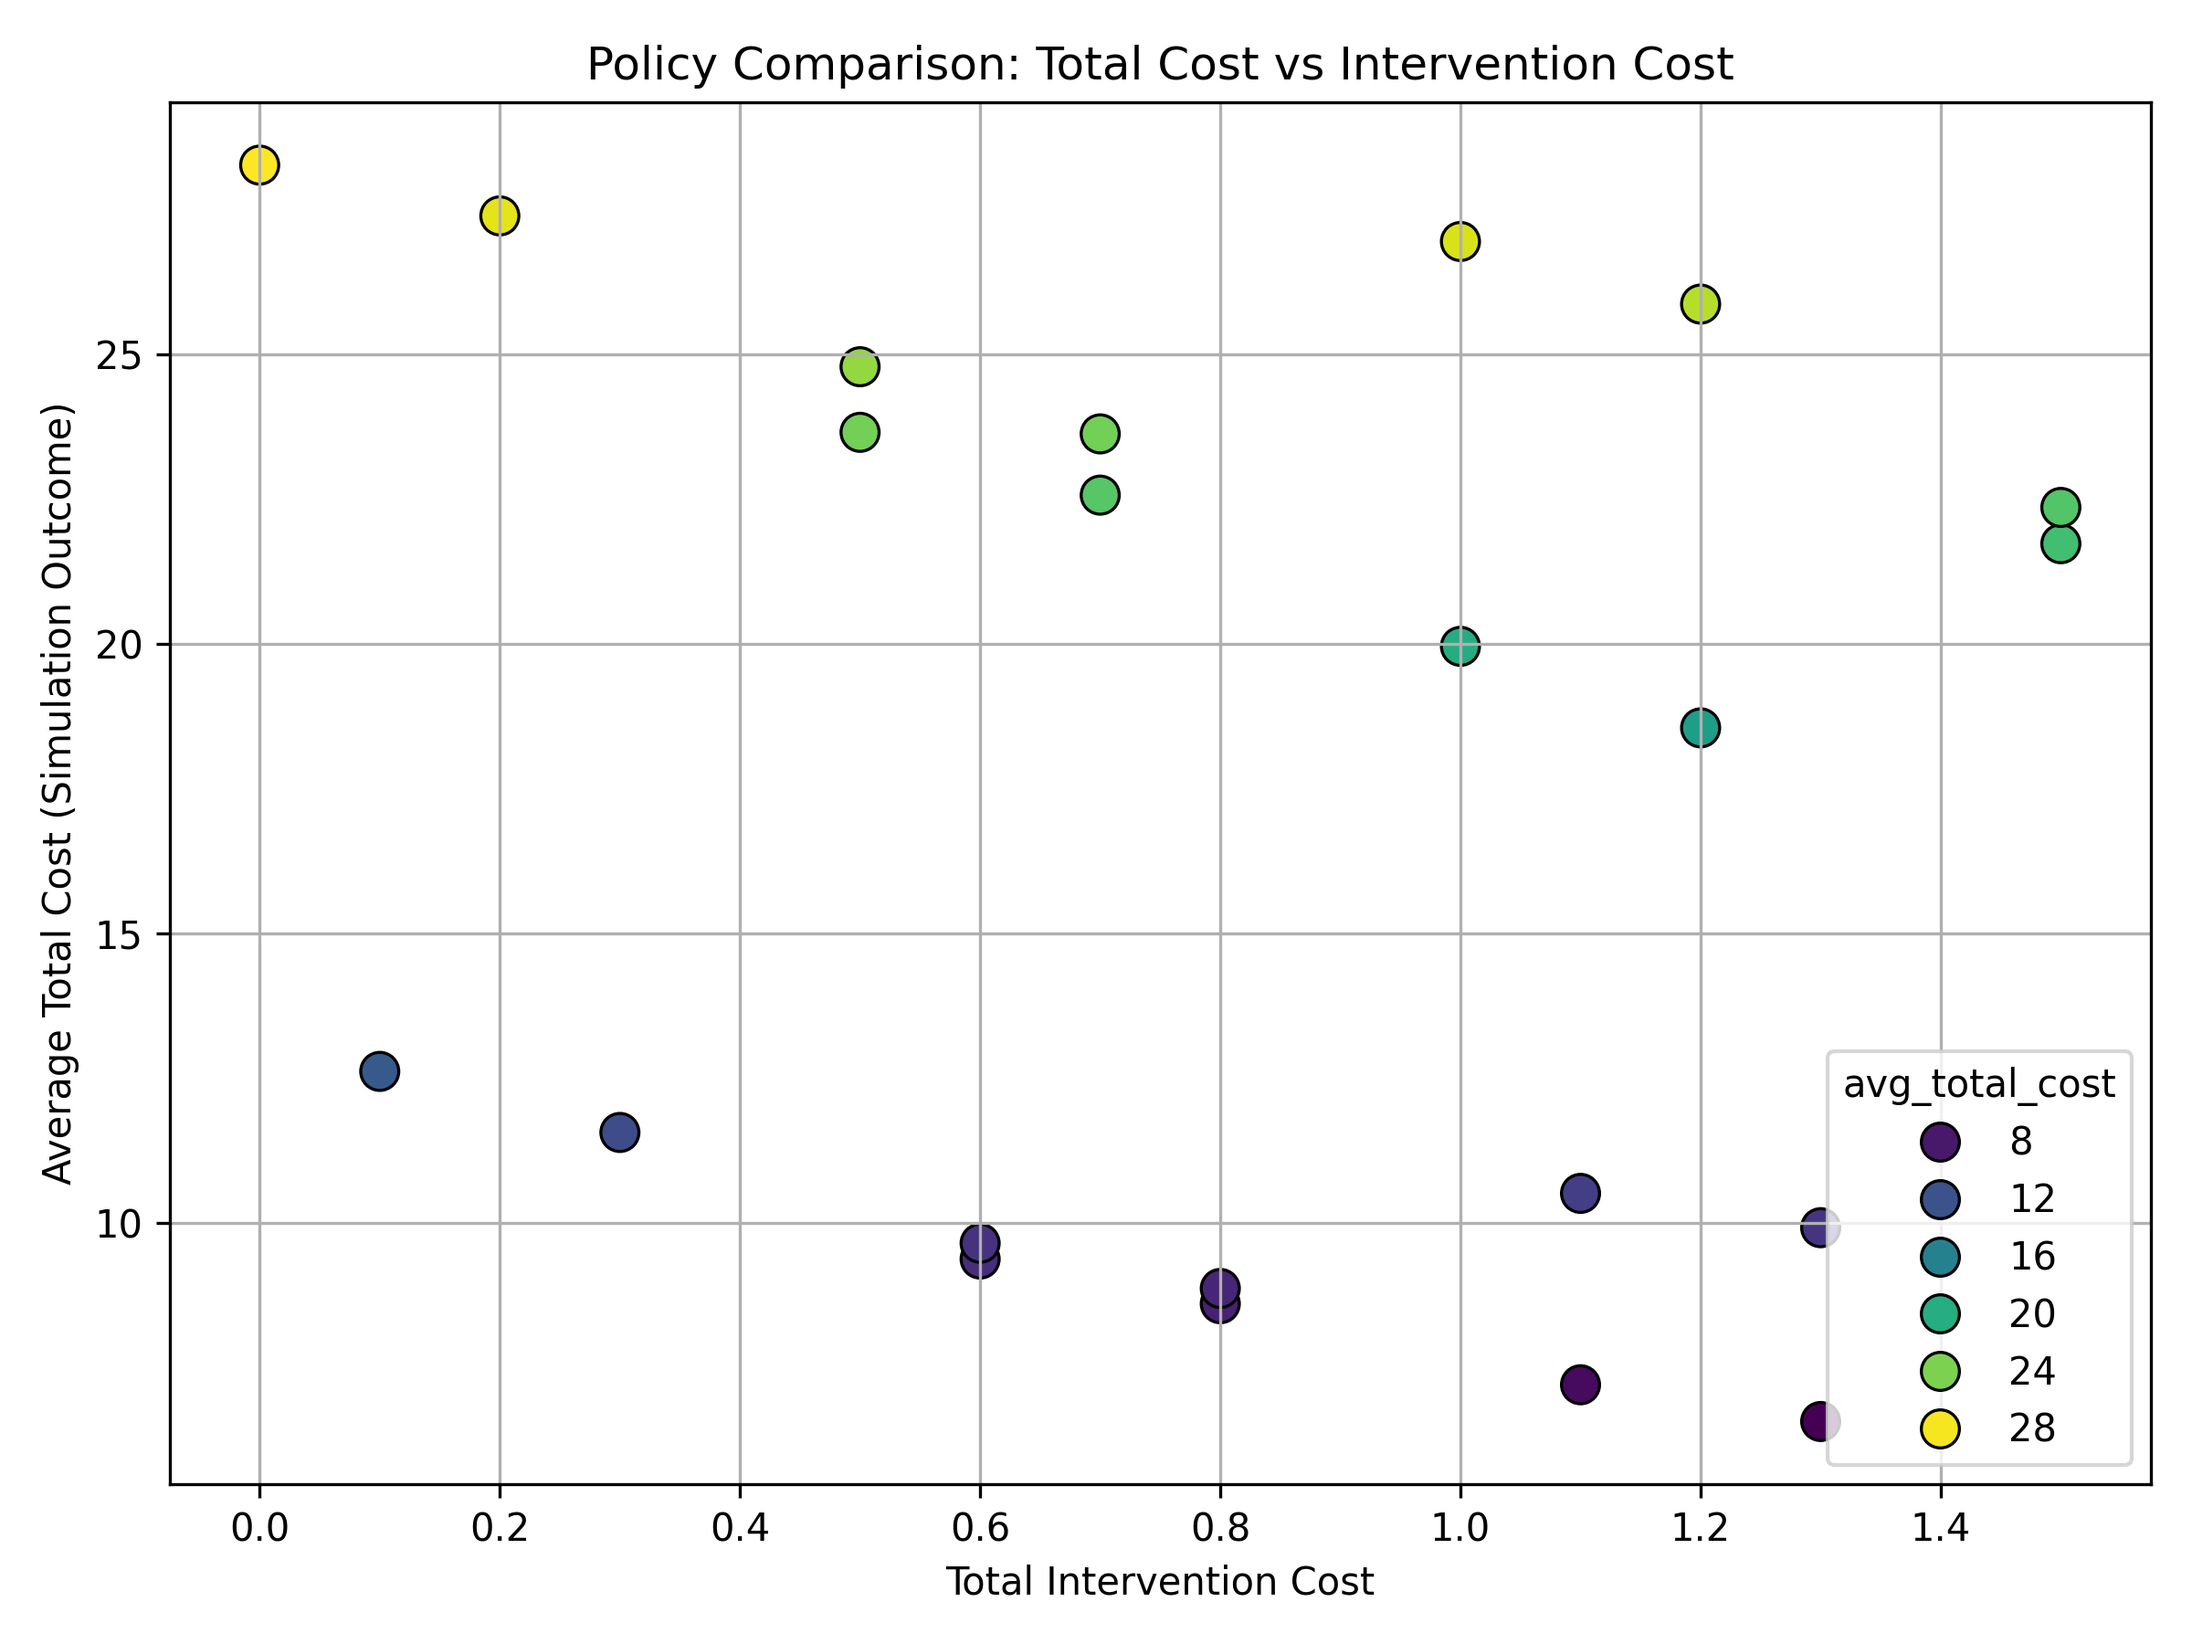
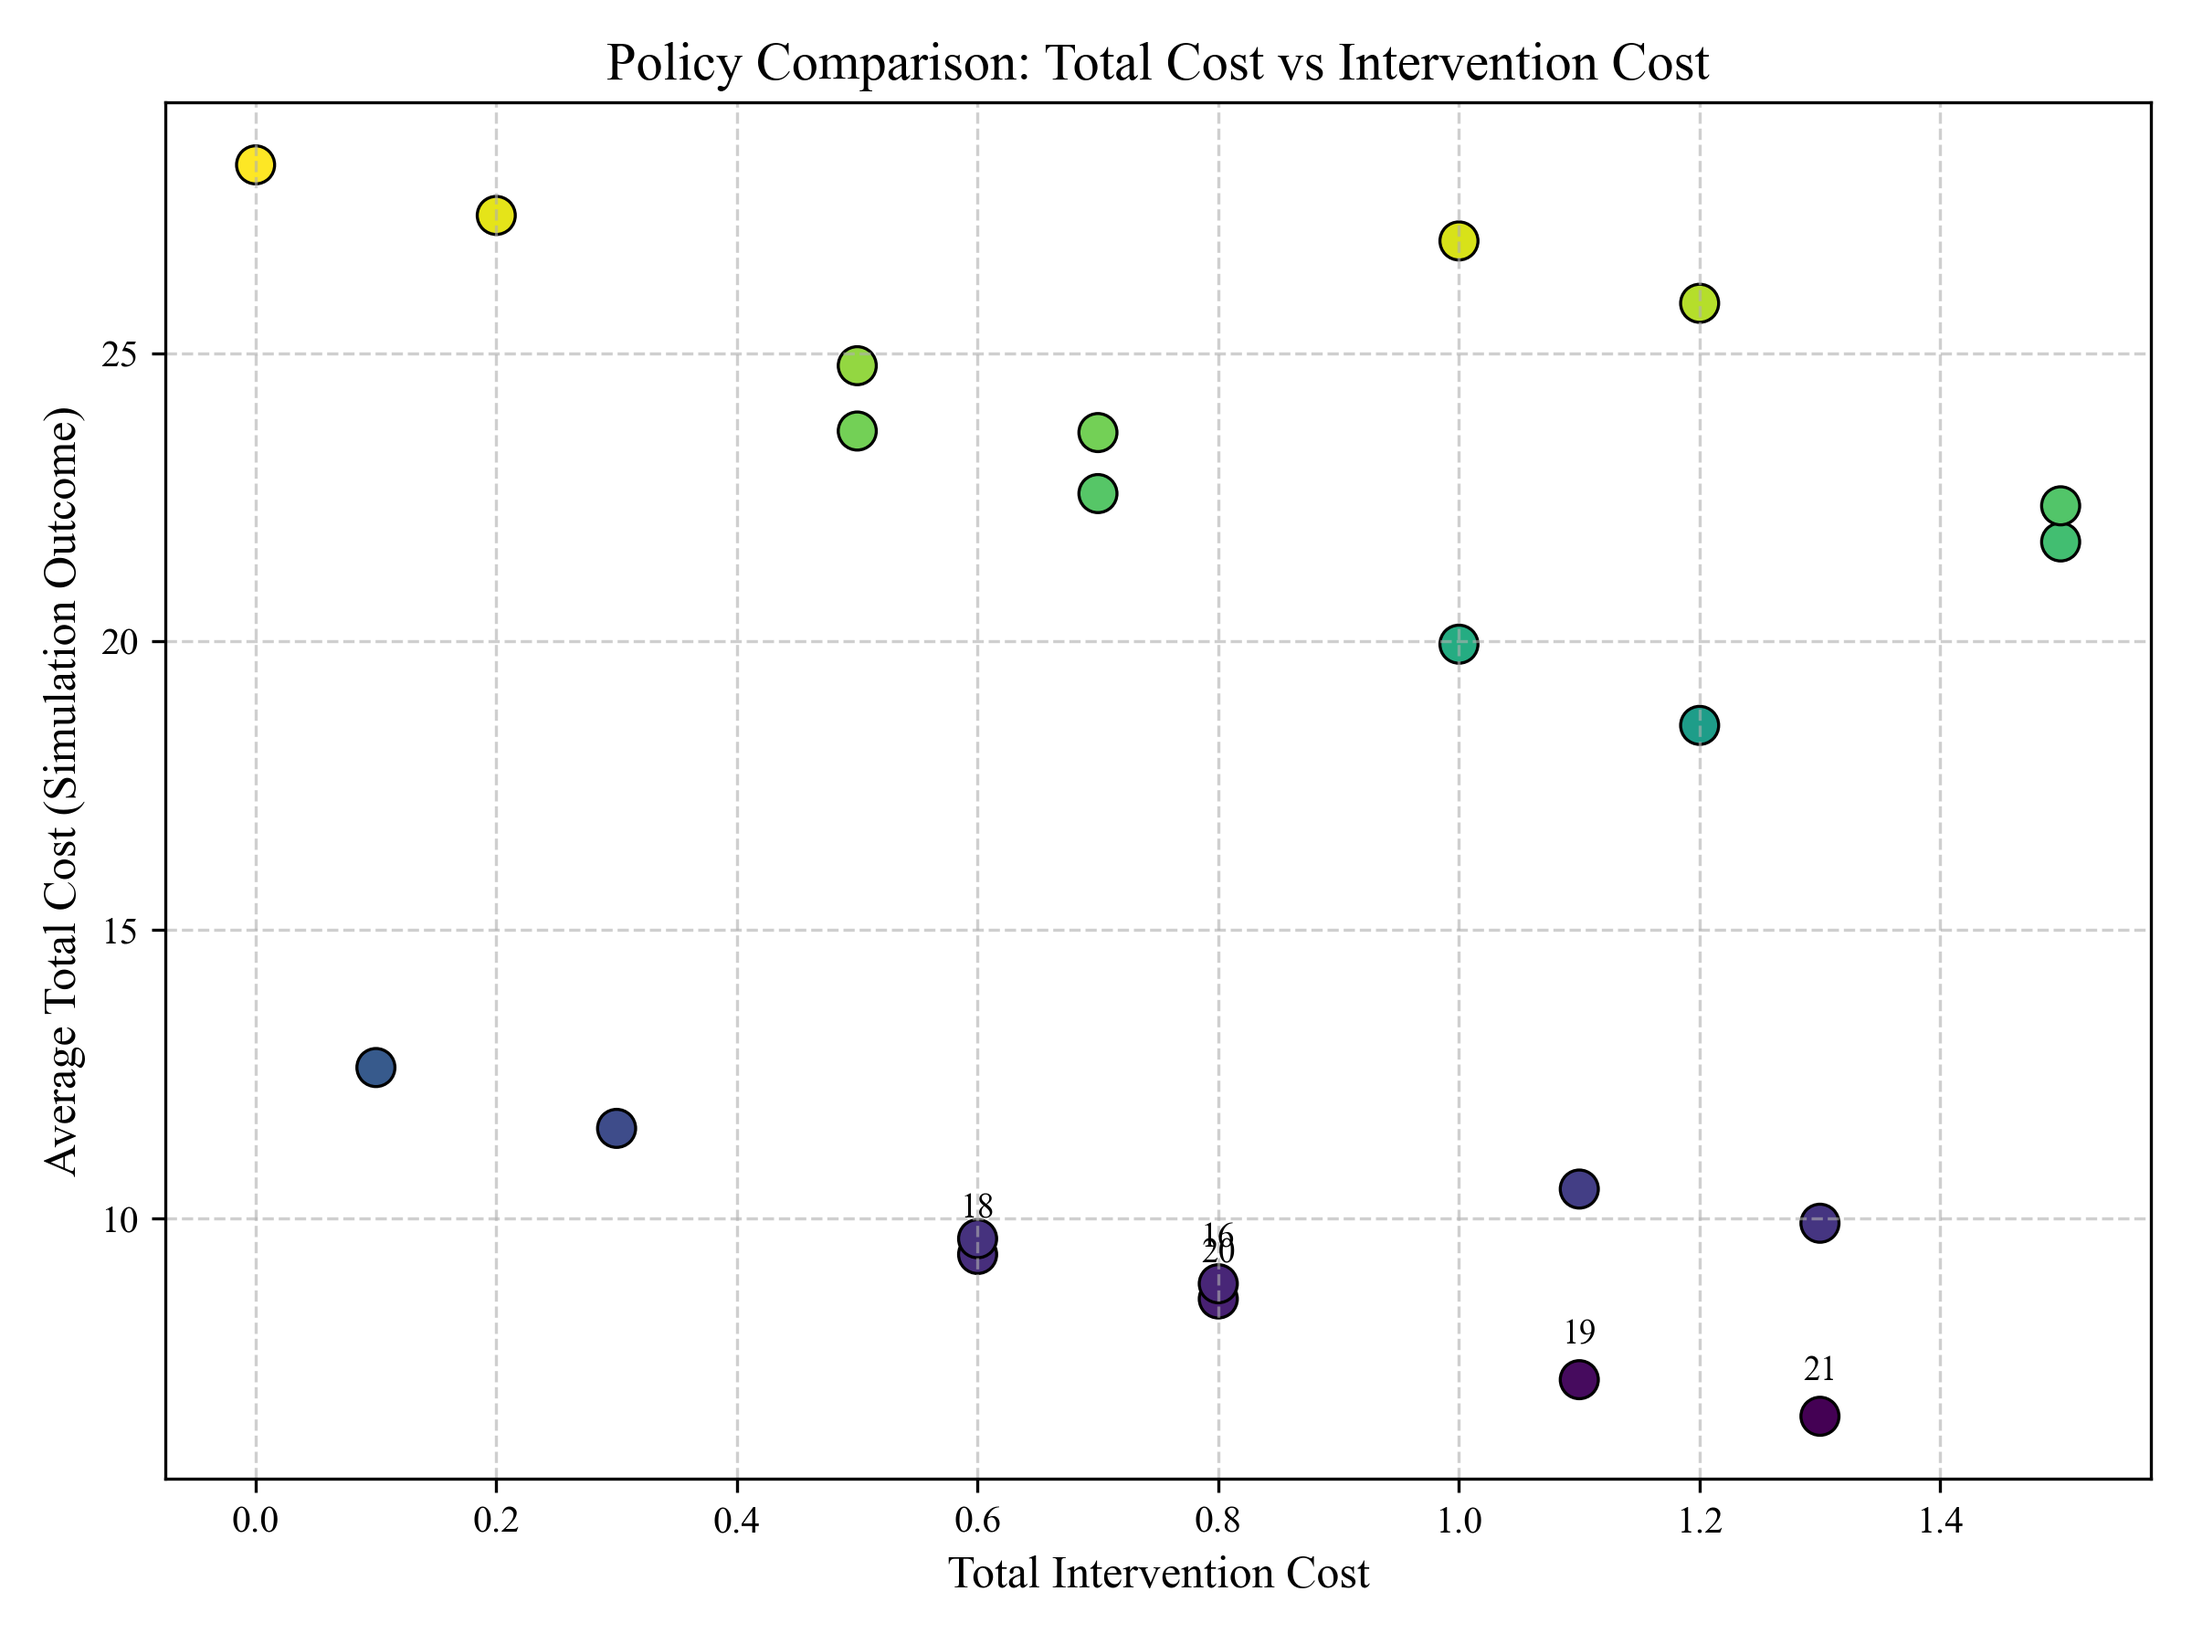
1

diff --git a/4_analysis_all.py b/4_analysis_all.py
@@ -3,81 +3,78 @@ import matplotlib.pyplot as plt
 import seaborn as sns
 import os
 import json
+import matplotlib
 
+# Times New Roman 설정
+matplotlib.rcParams['font.family'] = 'Times New Roman'
+
+# 경로
 SUMMARY_PATH = "results/summary.csv"
 METADATA_PATH = "results/policy_metadata.json"
 FIGURE_DIR = "figures"
 os.makedirs(FIGURE_DIR, exist_ok=True)
 
-# Load summary and metadata
+# Load
 df = pd.read_csv(SUMMARY_PATH)
 with open(METADATA_PATH, "r") as f:
     metadata = json.load(f)
 
-# --- Policy 비교: 개입 비용 vs 시뮬레이션 결과 ---
+# Total Cost vs Intervention Cost
 df_sorted = df.sort_values("avg_total_cost")
 plt.figure(figsize=(8, 6))
-sns.scatterplot(
+scatter = sns.scatterplot(
     data=df_sorted,
     x="intervention_cost",
     y="avg_total_cost",
     hue="avg_total_cost",
     palette="viridis",
     s=100,
-    edgecolor='black'
+    edgecolor='black',
+    legend=False
 )
-plt.title("Policy Comparison: Total Cost vs Intervention Cost")
-plt.xlabel("Total Intervention Cost")
-plt.ylabel("Average Total Cost (Simulation Outcome)")
-plt.grid(True)
+# Top-N 라벨링
+top_n = 5
+top_policies = df_sorted.head(top_n)
+for _, row in top_policies.iterrows():
+    plt.text(row["intervention_cost"], row["avg_total_cost"] + 0.5,
+             str(int(row["policy_id"])), fontsize=9,
+             ha='center', va='bottom', color='black')
+
+plt.title("Policy Comparison: Total Cost vs Intervention Cost", fontsize=14)
+plt.xlabel("Total Intervention Cost", fontsize=12)
+plt.ylabel("Average Total Cost (Simulation Outcome)", fontsize=12)
+plt.grid(True, linestyle='--', alpha=0.6)
 plt.tight_layout()
 plt.savefig(f"{FIGURE_DIR}/policy_cost_tradeoff.png", dpi=300)
 plt.close()
 
-# 상위 5개 정책 출력 및 저장
-top5 = df_sorted.head(5)
-print("🔍 Top 5 Cost-Effective Policies:")
-print(top5[["policy_id", "avg_total_cost", "intervention_cost"]])
-top5.to_csv(f"{FIGURE_DIR}/top5_policies.csv", index=False)
-
-# --- VoI 계산 ---
-df_sorted = df.sort_values("avg_total_cost").reset_index(drop=True)
+# VoI 계산
+df_sorted = df_sorted.reset_index(drop=True)
 baseline_cost = df_sorted[df_sorted["intervention_cost"] == 0]["avg_total_cost"].values[0]
 df_sorted["VoI"] = baseline_cost - df_sorted["avg_total_cost"]
 df_sorted["VoI_per_cost"] = df_sorted.apply(
     lambda row: row["VoI"] / row["intervention_cost"] if row["intervention_cost"] > 0 else 0,
     axis=1
 )
-df_sorted_top = df_sorted.sort_values("VoI_per_cost", ascending=False).head(10)
-df_sorted_top.to_csv(f"{FIGURE_DIR}/top_voi_per_cost.csv", index=False)
-
-print("\n🔍 Top 5 VoI/Cost Policies:")
-print(df_sorted_top[["policy_id", "avg_total_cost", "intervention_cost", "VoI", "VoI_per_cost"]])
 df_sorted.to_csv(os.path.join(FIGURE_DIR, "summary_with_voi.csv"), index=False)
 
-# --- 🔎 Policy 개입 위치 확인 ---
-print("\n📌 Intervention States per Policy:")
-for p in metadata:
-    print(f"Policy {p['policy_id']:>3}: {sorted(p['intervene_states'])}")
-
-# --- 🔥 VoI Heatmap per State ---
+# Heatmap
 state_list = ['S0', 'S1', 'S2', 'S3', 'S4', 'S5']
-voi_matrix = pd.DataFrame([
-    {**{'policy_id': p['policy_id']},
-     **{s: p['VoI'] if s in p['intervene_states'] else 0 for s in state_list}}
-    for p in metadata
-]).set_index('policy_id')
+voi_matrix = pd.DataFrame([{
+    'policy_id': p['policy_id'],
+    **{s: p['VoI'] if s in p['intervene_states'] else 0 for s in state_list}
+} for p in metadata]).set_index('policy_id')
 
 plt.figure(figsize=(10, 6))
-sns.heatmap(voi_matrix, annot=True, cmap="YlGnBu", cbar_kws={"label": "VoI"})
-plt.title("VoI per State per Policy")
-plt.xlabel("Intervention State")
-plt.ylabel("Policy ID")
+sns.heatmap(voi_matrix, annot=True, fmt=".2f", cmap="YlGnBu", cbar_kws={"label": "VoI"})
+plt.title("VoI per State per Policy", fontsize=14)
+plt.xlabel("Intervention State", fontsize=12)
+plt.ylabel("Policy ID", fontsize=12)
 plt.tight_layout()
 plt.savefig(f"{FIGURE_DIR}/voi_heatmap.png", dpi=300)
 plt.close()
 
-# --- 📈 Pareto Front (Cost vs VoI) ---
+# Pareto Front
 plt.figure(figsize=(8, 6))
 sc = plt.scatter(
     df_sorted["intervention_cost"],
@@ -88,12 +85,25 @@ sc = plt.scatter(
     edgecolors='k'
 )
 plt.colorbar(sc, label="VoI per Cost")
-plt.title("Pareto Front: Intervention Cost vs VoI")
-plt.xlabel("Intervention Cost")
-plt.ylabel("VoI (Risk Reduction)")
-plt.grid(True)
+
+# Top-N 라벨링 (Pareto)
+top_pareto = df_sorted.sort_values("VoI_per_cost", ascending=False).head(top_n)
+for _, row in top_pareto.iterrows():
+    plt.text(row["intervention_cost"], row["VoI"] + 0.5,
+             str(int(row["policy_id"])), fontsize=9,
+             ha='center', va='bottom', color='black')
+
+plt.title("Pareto Front: Intervention Cost vs VoI", fontsize=14)
+plt.xlabel("Intervention Cost", fontsize=12)
+plt.ylabel("VoI (Risk Reduction)", fontsize=12)
+plt.grid(True, linestyle='--', alpha=0.6)
 plt.tight_layout()
 plt.savefig(f"{FIGURE_DIR}/pareto_voi_front.png", dpi=300)
 plt.close()
+# --- Top 5 (by avg_total_cost)
+print("\n🔹 Top 5 Policies by Lowest Average Total Cost:")
+print(top_policies[["policy_id", "avg_total_cost", "intervention_cost"]])
 
-print(f"✅ All plots and files saved to {FIGURE_DIR}/")
+# --- Top 5 (by VoI_per_cost)
+print("\n🔸 Top 5 Policies by Highest VoI per Cost:")
+print(top_pareto[["policy_id", "VoI", "intervention_cost", "VoI_per_cost"]])
